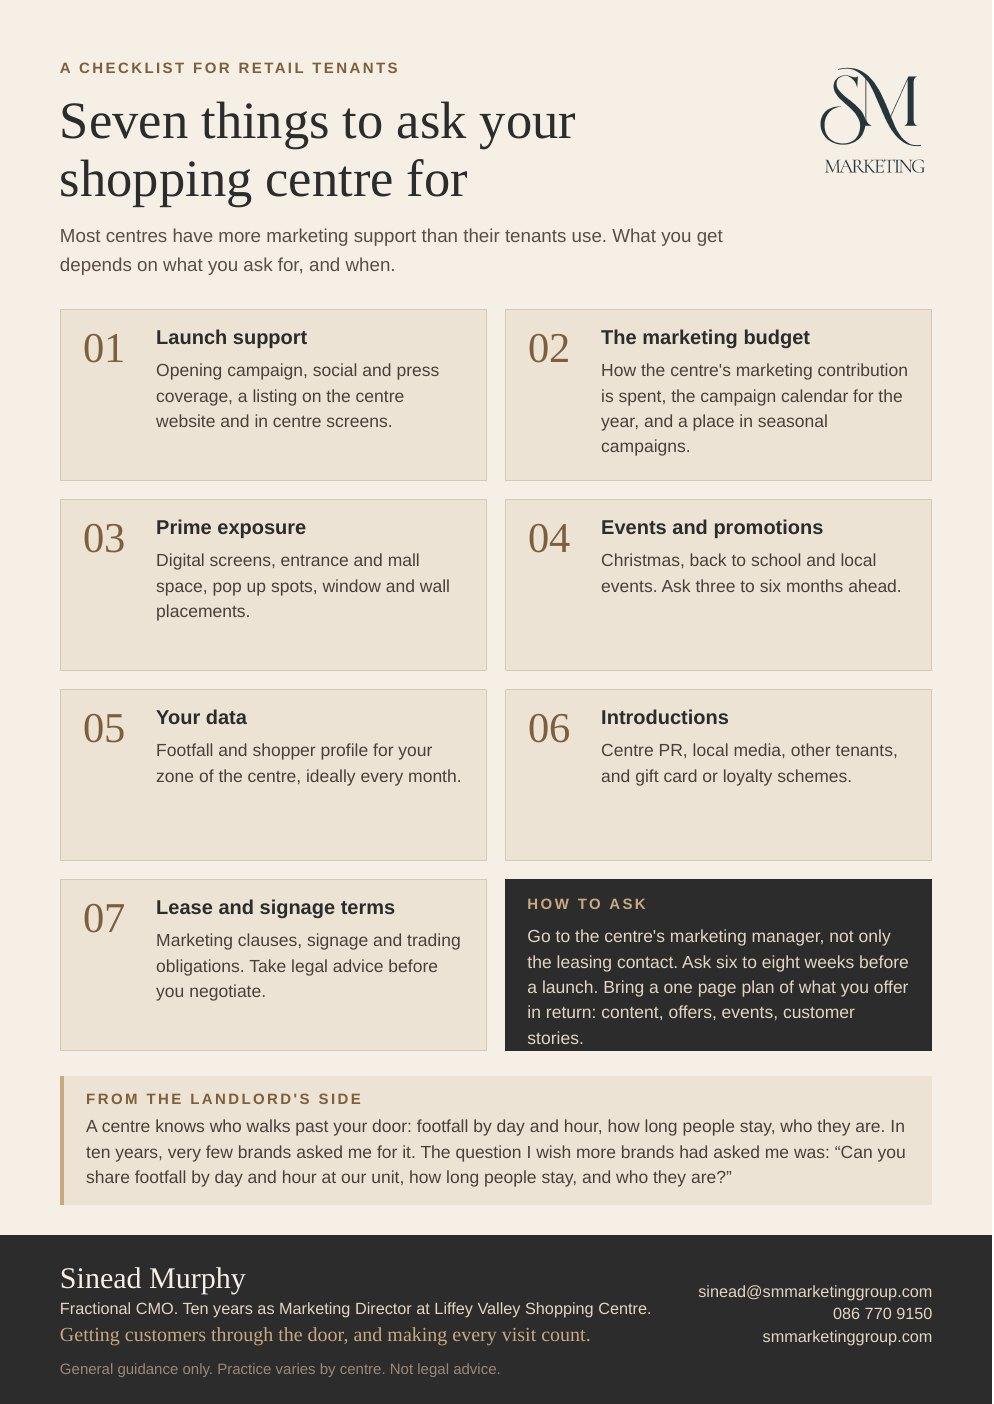
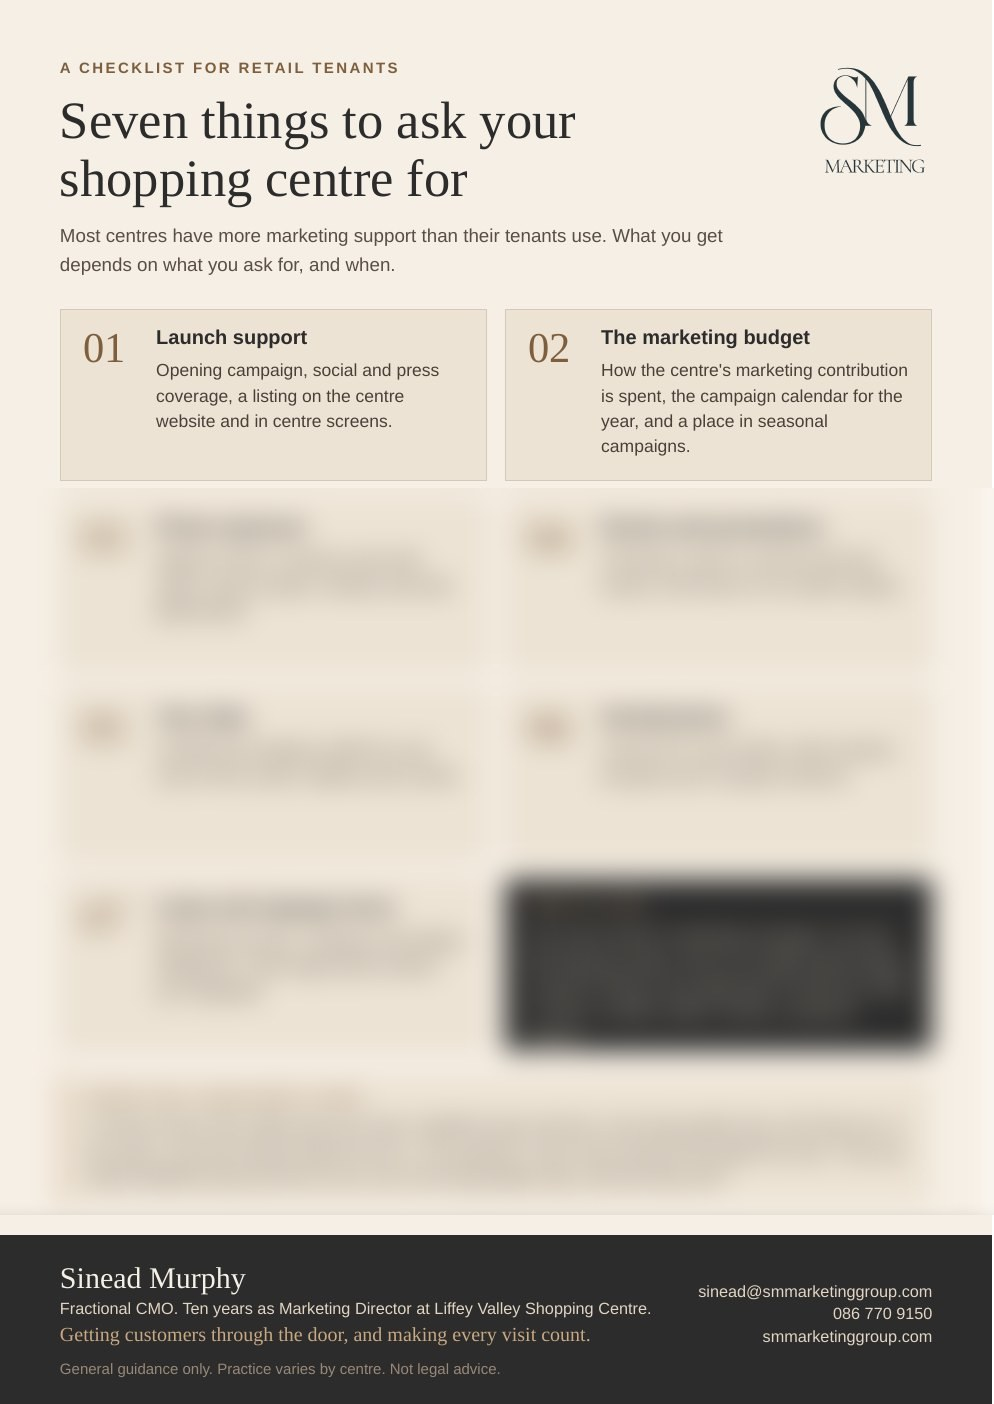
Gate the shopping centre checklist behind email
Show tips 1 and 2, replace tips 3 to 7 with placeholders, blur the
preview image, move the PDF to an unguessable filename that is only
linked after the form is submitted, and send a generate_lead event.

Claude-Session: https://claude.ai/code/session_015XpUo5aSb8cu2DbZcJ9ukQ

diff --git a/shopping-centre-checklist.html b/shopping-centre-checklist.html
@@ -115,6 +115,13 @@
 .ck-list strong{display:block;color:var(--charcoal)}
 .ck-q{border-left:3px solid var(--rose);background:var(--linen,#EDE3D5);padding:1.1rem 1.4rem;margin:1.5rem 0;font-family:var(--serif);font-size:1.25rem;color:var(--charcoal)}
 .ck-wrap{max-width:560px}
+.ck-lock .ck-lock__icon{color:var(--taupe);display:block}
+.ck-bars i{display:block;height:.75rem;border-radius:999px;background:var(--border);margin:.6rem 0;filter:blur(2.5px);opacity:.85}
+.ck-bars i:nth-child(1){width:100%}.ck-bars i:nth-child(2){width:88%}.ck-bars i:nth-child(3){width:58%}
+.ck-sr{position:absolute;width:1px;height:1px;overflow:hidden;clip:rect(0 0 0 0);white-space:nowrap}
+.ck-more{margin-top:1.5rem}
+.ck-preview{position:relative}
+.ck-preview__badge{position:absolute;left:50%;top:52%;transform:translate(-50%,-50%);background:var(--charcoal);color:var(--ivory);font:700 .85rem var(--sans);letter-spacing:.04em;padding:.7rem 1.2rem;border-radius:999px;box-shadow:0 6px 20px rgba(44,44,44,.25);max-width:86%;text-align:center;line-height:1.3}
 .ck-done{display:none}
 .ck-done.show{display:block}
   </style>
@@ -178,20 +185,19 @@
         </form>
         <div class="ck-done" id="ckDone">
           <h3>Thank you.</h3>
-          <p><a class="btn-primary" href="/SM-Marketing-Group-shopping-centre-checklist.pdf" download>Download the checklist (PDF)</a></p>
+          <p><a class="btn-primary" href="/SM-Marketing-Group-Shopping-Centre-Checklist-c4c75e1100.pdf" download>Download the checklist (PDF)</a></p>
           <p class="contact-form__note">Want help acting on it? <a href="/diagnostic.html">See the Diagnostic</a> or <a href="/contact.html">book a 30 minute call</a>.</p>
         </div>
       </div>
     </div>
-    <div class="ck-preview reveal" id="get-the-checklist"><img src="/images/checklist-preview.jpg" alt="The one page checklist: seven things to ask your shopping centre for" width="827" height="1170"/></div>
+    <div class="ck-preview reveal" id="get-the-checklist"><img src="/images/checklist-preview.jpg" alt="Preview of the one page checklist. Tips 3 to 7 are hidden until you download it." width="827" height="1170"/><span class="ck-preview__badge">Tips 3 to 7 unlock with your email</span></div>
   </div>
 </section>
 <section class="ed-sec">
   <div class="container">
-    <div class="reveal" style="margin-bottom:2rem"><span class="ed-label">Inside the checklist</span><h2 class="ed-big">Seven things to ask your <em>shopping centre for.</em></h2><p class="ed-lede" style="margin-top:1.2rem;max-width:34em">Most centres have more marketing support than their tenants use. What you get depends on what you ask for, and when.</p></div>
-    <div class="ed-tier reveal" style="padding:1.6rem 0"><div><span class="num">01</span><h3 style="font-size:clamp(1.6rem,2.6vw,2.2rem);margin-top:.2rem">Launch support</h3></div><div><p class="ed-lede">Opening campaign, social and press coverage, a listing on the centre website and in centre screens.</p></div></div><div class="ed-tier reveal" style="padding:1.6rem 0"><div><span class="num">02</span><h3 style="font-size:clamp(1.6rem,2.6vw,2.2rem);margin-top:.2rem">The marketing budget</h3></div><div><p class="ed-lede">How the centre&#39;s marketing contribution is spent, the campaign calendar for the year, and a place in seasonal campaigns.</p></div></div><div class="ed-tier reveal" style="padding:1.6rem 0"><div><span class="num">03</span><h3 style="font-size:clamp(1.6rem,2.6vw,2.2rem);margin-top:.2rem">Prime exposure</h3></div><div><p class="ed-lede">Digital screens, entrance and mall space, pop up spots, window and wall placements.</p></div></div><div class="ed-tier reveal" style="padding:1.6rem 0"><div><span class="num">04</span><h3 style="font-size:clamp(1.6rem,2.6vw,2.2rem);margin-top:.2rem">Events and promotions</h3></div><div><p class="ed-lede">Christmas, back to school and local events. Ask three to six months ahead.</p></div></div><div class="ed-tier reveal" style="padding:1.6rem 0"><div><span class="num">05</span><h3 style="font-size:clamp(1.6rem,2.6vw,2.2rem);margin-top:.2rem">Your data</h3></div><div><p class="ed-lede">Footfall and shopper profile for your zone of the centre, ideally every month. This is the one very few brands ask for.</p></div></div><div class="ed-tier reveal" style="padding:1.6rem 0"><div><span class="num">06</span><h3 style="font-size:clamp(1.6rem,2.6vw,2.2rem);margin-top:.2rem">Introductions</h3></div><div><p class="ed-lede">Centre PR, local media, other tenants, and gift card or loyalty schemes.</p></div></div><div class="ed-tier reveal" style="padding:1.6rem 0"><div><span class="num">07</span><h3 style="font-size:clamp(1.6rem,2.6vw,2.2rem);margin-top:.2rem">Lease and signage terms</h3></div><div><p class="ed-lede">Marketing clauses, signage and trading obligations. Take legal advice before you negotiate.</p></div></div>
-    <div class="ed-q reveal">A centre knows who walks past your door: footfall by day and hour, how long people stay, who they are. In ten years, very few brands asked me for it.</div>
-    <p class="ed-lede reveal"><strong>How to ask.</strong> Go to the centre&#39;s marketing manager, not only the leasing contact. Ask six to eight weeks before a launch. Bring a one page plan of what you offer in return: content, offers, events, customer stories.</p>
+    <div class="reveal" style="margin-bottom:2rem"><span class="ed-label">Two of the seven, free to read</span><h2 class="ed-big">Seven things to ask your <em>shopping centre for.</em></h2><p class="ed-lede" style="margin-top:1.2rem;max-width:34em">Most centres have more marketing support than their tenants use. What you get depends on what you ask for, and when.</p></div>
+    <div class="ed-tier reveal" style="padding:1.6rem 0"><div><span class="num">01</span><h3 style="font-size:clamp(1.6rem,2.6vw,2.2rem);margin-top:.2rem">Launch support</h3></div><div><p class="ed-lede">Opening campaign, social and press coverage, a listing on the centre website and in centre screens.</p></div></div><div class="ed-tier reveal" style="padding:1.6rem 0"><div><span class="num">02</span><h3 style="font-size:clamp(1.6rem,2.6vw,2.2rem);margin-top:.2rem">The marketing budget</h3></div><div><p class="ed-lede">How the centre&#39;s marketing contribution is spent, the campaign calendar for the year, and a place in seasonal campaigns.</p></div></div><div class="ed-tier reveal ck-lock" style="padding:1.6rem 0"><div><span class="num">03</span><h3 style="font-size:clamp(1.6rem,2.6vw,2.2rem);margin-top:.2rem"><svg class="ck-lock__icon" viewBox="0 0 24 24" width="18" height="18" aria-hidden="true"><path fill="currentColor" d="M17 9h-1V7a4 4 0 0 0-8 0v2H7a2 2 0 0 0-2 2v8a2 2 0 0 0 2 2h10a2 2 0 0 0 2-2v-8a2 2 0 0 0-2-2zm-7-2a2 2 0 0 1 4 0v2h-4V7z"/></svg><span class="ck-sr"> Locked. Get the checklist to read tip 3.</span></h3></div><div class="ck-bars" aria-hidden="true"><i></i><i></i><i></i></div></div><div class="ed-tier reveal ck-lock" style="padding:1.6rem 0"><div><span class="num">04</span><h3 style="font-size:clamp(1.6rem,2.6vw,2.2rem);margin-top:.2rem"><svg class="ck-lock__icon" viewBox="0 0 24 24" width="18" height="18" aria-hidden="true"><path fill="currentColor" d="M17 9h-1V7a4 4 0 0 0-8 0v2H7a2 2 0 0 0-2 2v8a2 2 0 0 0 2 2h10a2 2 0 0 0 2-2v-8a2 2 0 0 0-2-2zm-7-2a2 2 0 0 1 4 0v2h-4V7z"/></svg><span class="ck-sr"> Locked. Get the checklist to read tip 4.</span></h3></div><div class="ck-bars" aria-hidden="true"><i></i><i></i><i></i></div></div><div class="ed-tier reveal ck-lock" style="padding:1.6rem 0"><div><span class="num">05</span><h3 style="font-size:clamp(1.6rem,2.6vw,2.2rem);margin-top:.2rem"><svg class="ck-lock__icon" viewBox="0 0 24 24" width="18" height="18" aria-hidden="true"><path fill="currentColor" d="M17 9h-1V7a4 4 0 0 0-8 0v2H7a2 2 0 0 0-2 2v8a2 2 0 0 0 2 2h10a2 2 0 0 0 2-2v-8a2 2 0 0 0-2-2zm-7-2a2 2 0 0 1 4 0v2h-4V7z"/></svg><span class="ck-sr"> Locked. Get the checklist to read tip 5.</span></h3></div><div class="ck-bars" aria-hidden="true"><i></i><i></i><i></i></div></div><div class="ed-tier reveal ck-lock" style="padding:1.6rem 0"><div><span class="num">06</span><h3 style="font-size:clamp(1.6rem,2.6vw,2.2rem);margin-top:.2rem"><svg class="ck-lock__icon" viewBox="0 0 24 24" width="18" height="18" aria-hidden="true"><path fill="currentColor" d="M17 9h-1V7a4 4 0 0 0-8 0v2H7a2 2 0 0 0-2 2v8a2 2 0 0 0 2 2h10a2 2 0 0 0 2-2v-8a2 2 0 0 0-2-2zm-7-2a2 2 0 0 1 4 0v2h-4V7z"/></svg><span class="ck-sr"> Locked. Get the checklist to read tip 6.</span></h3></div><div class="ck-bars" aria-hidden="true"><i></i><i></i><i></i></div></div><div class="ed-tier reveal ck-lock" style="padding:1.6rem 0"><div><span class="num">07</span><h3 style="font-size:clamp(1.6rem,2.6vw,2.2rem);margin-top:.2rem"><svg class="ck-lock__icon" viewBox="0 0 24 24" width="18" height="18" aria-hidden="true"><path fill="currentColor" d="M17 9h-1V7a4 4 0 0 0-8 0v2H7a2 2 0 0 0-2 2v8a2 2 0 0 0 2 2h10a2 2 0 0 0 2-2v-8a2 2 0 0 0-2-2zm-7-2a2 2 0 0 1 4 0v2h-4V7z"/></svg><span class="ck-sr"> Locked. Get the checklist to read tip 7.</span></h3></div><div class="ck-bars" aria-hidden="true"><i></i><i></i><i></i></div></div><div class="ed-q reveal">A centre knows who walks past your door: footfall by day and hour, how long people stay, who they are. In ten years, very few brands asked me for it.</div>
+    <p class="ed-lede reveal ck-more"><strong>Tips 3 to 7 are in the free download.</strong> Enter your email and get all seven, plus how to ask for them. <a href="#ckForm" class="ed-link">Get the checklist</a></p>
   </div>
 </section>
 <section class="ed-cta">
@@ -207,7 +213,7 @@
   f.addEventListener('submit',function(ev){
     ev.preventDefault();e.style.display='none';
     fetch(f.action,{method:'POST',body:new FormData(f),headers:{'Accept':'application/json'}})
-      .then(function(r){if(r.ok){f.style.display='none';d.classList.add('show');}else{e.style.display='block';}})
+      .then(function(r){if(r.ok){f.style.display='none';d.classList.add('show');if(window.gtag){gtag('event','generate_lead',{form_name:'shopping-centre-checklist'});}}else{e.style.display='block';}})
       .catch(function(){e.style.display='block';});
   });
 })();
